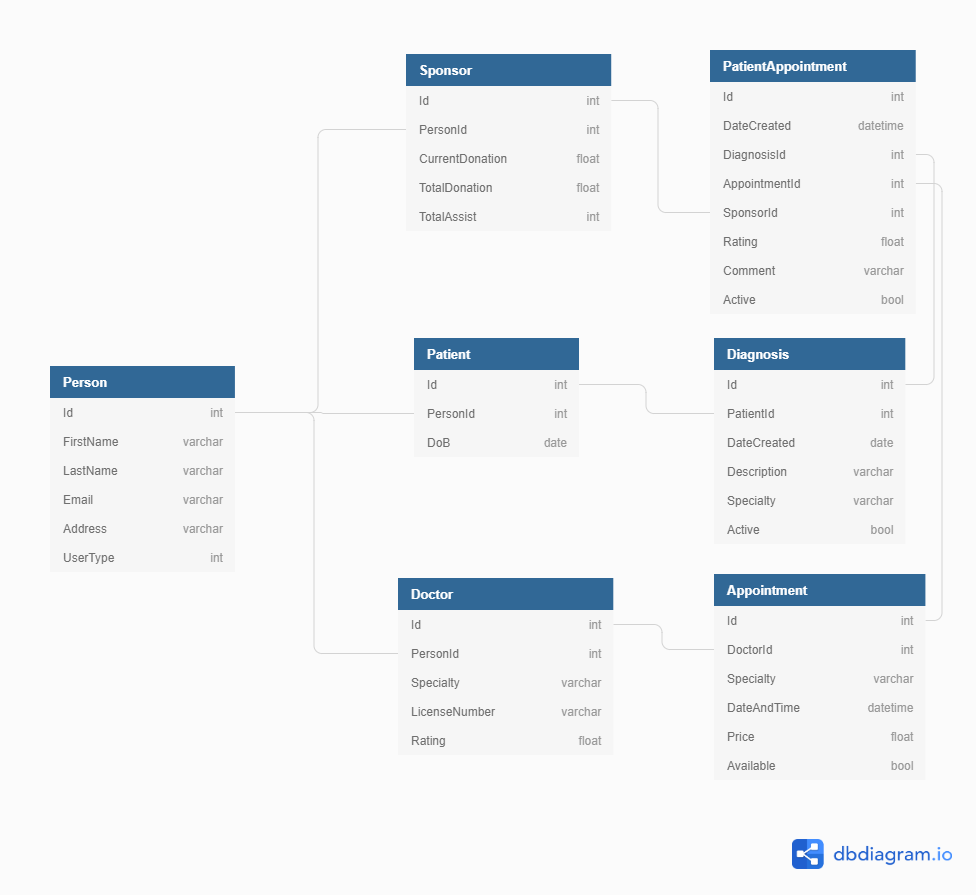
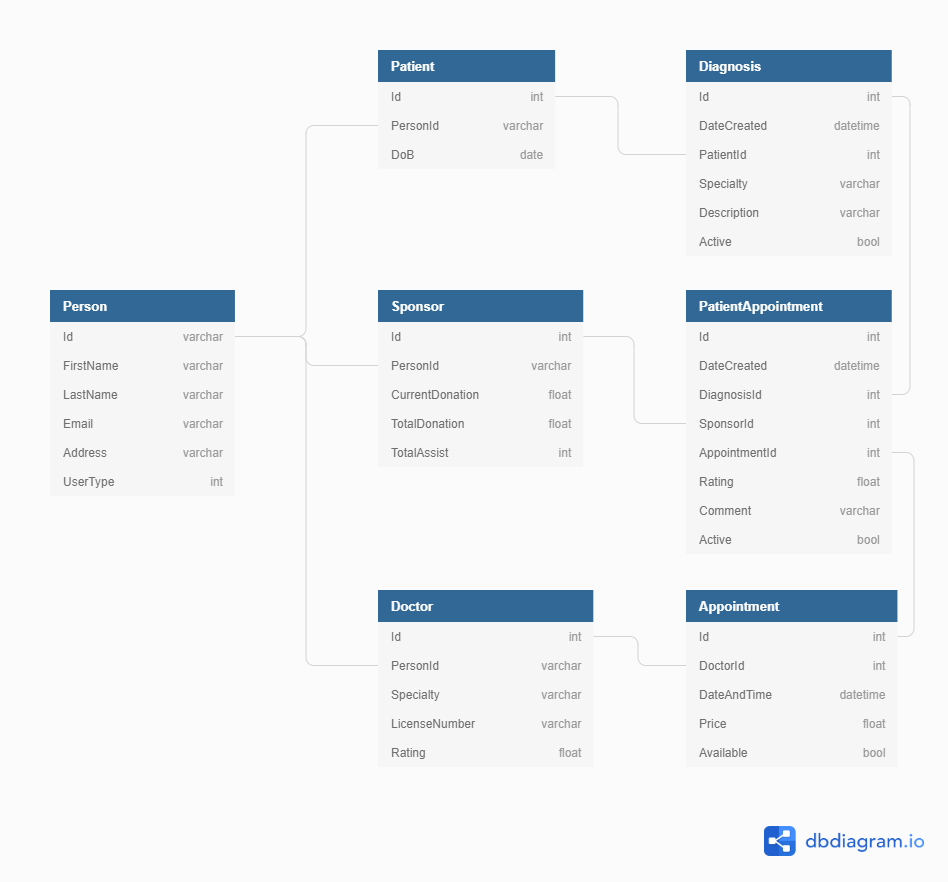
Added a patient list, updated ERD and ReadMe

diff --git a/README.md b/README.md
@@ -5,11 +5,11 @@
 
 
 ## Brief Proposal:
- A healthcare-related humanitarian project for three groups of people: 
-* who need healthcare treatment, 
+A healthcare-related humanitarian project for three groups of people: 
+* who need healthcare treatment (patients), 
 * who provide healthcare-related services (doctors), 
-* who can provide an appropriate help to get healthcare treatment (philanthropists).
- The application creates a connection between people who cannot afford health insurance and healthcare providers like doctors and physicians.  In addition, philanthropists can donate money to help with external costs associated with treatments.
+* who can provide appropriate help to get healthcare treatment (sponsors).
+The application creates a connection between people who cannot afford health insurance and healthcare providers like doctors and physicians. In addition, sponsors can donate money to help with external costs associated with treatments.
 
 
 ## Stack: MVC 
@@ -18,14 +18,14 @@
 ## App Summary
 
 ## MVP Definition: 
-* User-specific CRUD for tree type of users: Patient, Doctor and Sponsor
-* User-specific lists of the Patients, Doctors and Sponsors
+* User-specific CRUD for tree type of users: Patient, Doctor, and Sponsor
+* User-specific lists of the Patients, Doctors, and Sponsors
 * Ability for a Patient to create Diagnosis request
 * Ability to schedule an Appointment when appropriate date-time and aids funds are available
 * Ability for a Patient to rate an Appointment and comment it
-* Ability for a Doctor to provide information on Date, Time and Price af Appointments
-* Ability for a Doctor to schedule an Appointment for particular Patient with no charge for it
-* Ability for a Sponsor to indicate sum of money she can give for aid
+* Ability for a Doctor to provide information on Date, Time and Price of Appointments
+* Ability for a Doctor to schedule an Appointment for a particular Patient with no charge for it
+* Ability for a Sponsor to indicate the sum of money she can give for aid
 * Ability for a Sponsor to indicate a Patient whom she provides assist.
 
 
@@ -42,24 +42,24 @@ Then the following input fields should be presented:
 When the user is logged in for the first time
 Then a form should be displayed in which the following information can be entered:
 for all type of users:
- - First name and Last name
- - contact e-mail address (can be different from the account e-mail)
- - mailing home or office address
+- First name and Last name
+- contact e-mail address (can be different from the account e-mail)
+- mailing home or office address
 for Patient account type:
- - Date of Birth
+- Date of Birth
 for Doctor account type:
- - doctors Specialization
- - valid license number
+- doctors Specialization
+- valid license number
 
-3. Given a Patient wants to view list of available Appointments for specific Speciality
+3. Given a Patient wants to view a list of available Appointments for specific Speciality
 When the Patient clicks on the Doctors item in the navigation bar
 Then all Doctors of specific Speciality with available Appointments should be listed with the following information:
 - First name and last name
-- Speciality
+- Specialty
 - Doctors rating
 - Date and Time, available to schedule appointment
 
-4. Given a Patient wants to view detailed information on particular Doctor
+4. Given a Patient wants to view detailed information on a particular Doctor
 When the Patient clicks on the Doctors name from the list, presented in Doctors section
 Then the Detailed information about Doctors should be presented.
 
@@ -73,21 +73,21 @@ Then the list of all Sponsors with available aids money at the moment should be 
 When the Patient clicks on the Appointment item in the navigation bar
 Then the following information should be presented:
 - the Patients own First name and last name
-- Speciality needed based on Diagnosis provided
+- Specialty needed based on Diagnosis provided
 - List of Doctors to choose from (drop-down select menu)
 - List of available Date and Time to schedule appointment (drop-down select menu)
 - List of Sponsors, who provide enough money to pay for appointment (drop-down select menu)
 And then clicks on the Submit button
 Then the DiagnosesAppointment item should be created
 
-7. Doctor should be able to provide an appointment information
+7. The Doctor should be able to provide an appointment information
 Given a Doctor wants to provide an Appointment related information
 When the Doctor clicks on the Create Appointment button
 Then a form should be displayed in which the following information can be entered:
 - new Appointment date and time
 - a required Appointment charge sum
 
-8. Doctor should be able to schedule an free of charge appointment
+8. The Doctor should be able to schedule a free of charge appointment
 Given a Doctor wants to schedule a free of charge appointment for a particular Patient
 When the Doctor clicks on Name of Patient in the presented list
 Then the following information should be presented:
@@ -97,12 +97,12 @@ Then the following information should be presented:
 - And then clicks on the Submit button
 Then the DiagnosesAppointment item should be created
 
-9. Sponsor should be able to update the sum of donation
-Given an Sponsor wants to update the sum of donation
+9. The Sponsor should be able to update the sum of donation
+Given the Sponsor wants to update the sum of donation
 When the Sponsor clicks on her name in the list
 Then the detailed information should be presented with an input field for the sum of donation.
 
-10. Sponsor should be able to schedule an appointment
+10. The Sponsor should be able to schedule an appointment
 Given a Sponsor wants to schedule an appointment for a particular Patient
 When the Sponsor clicks on Name of Patient in the presented list
 Then the following information should be presented:
